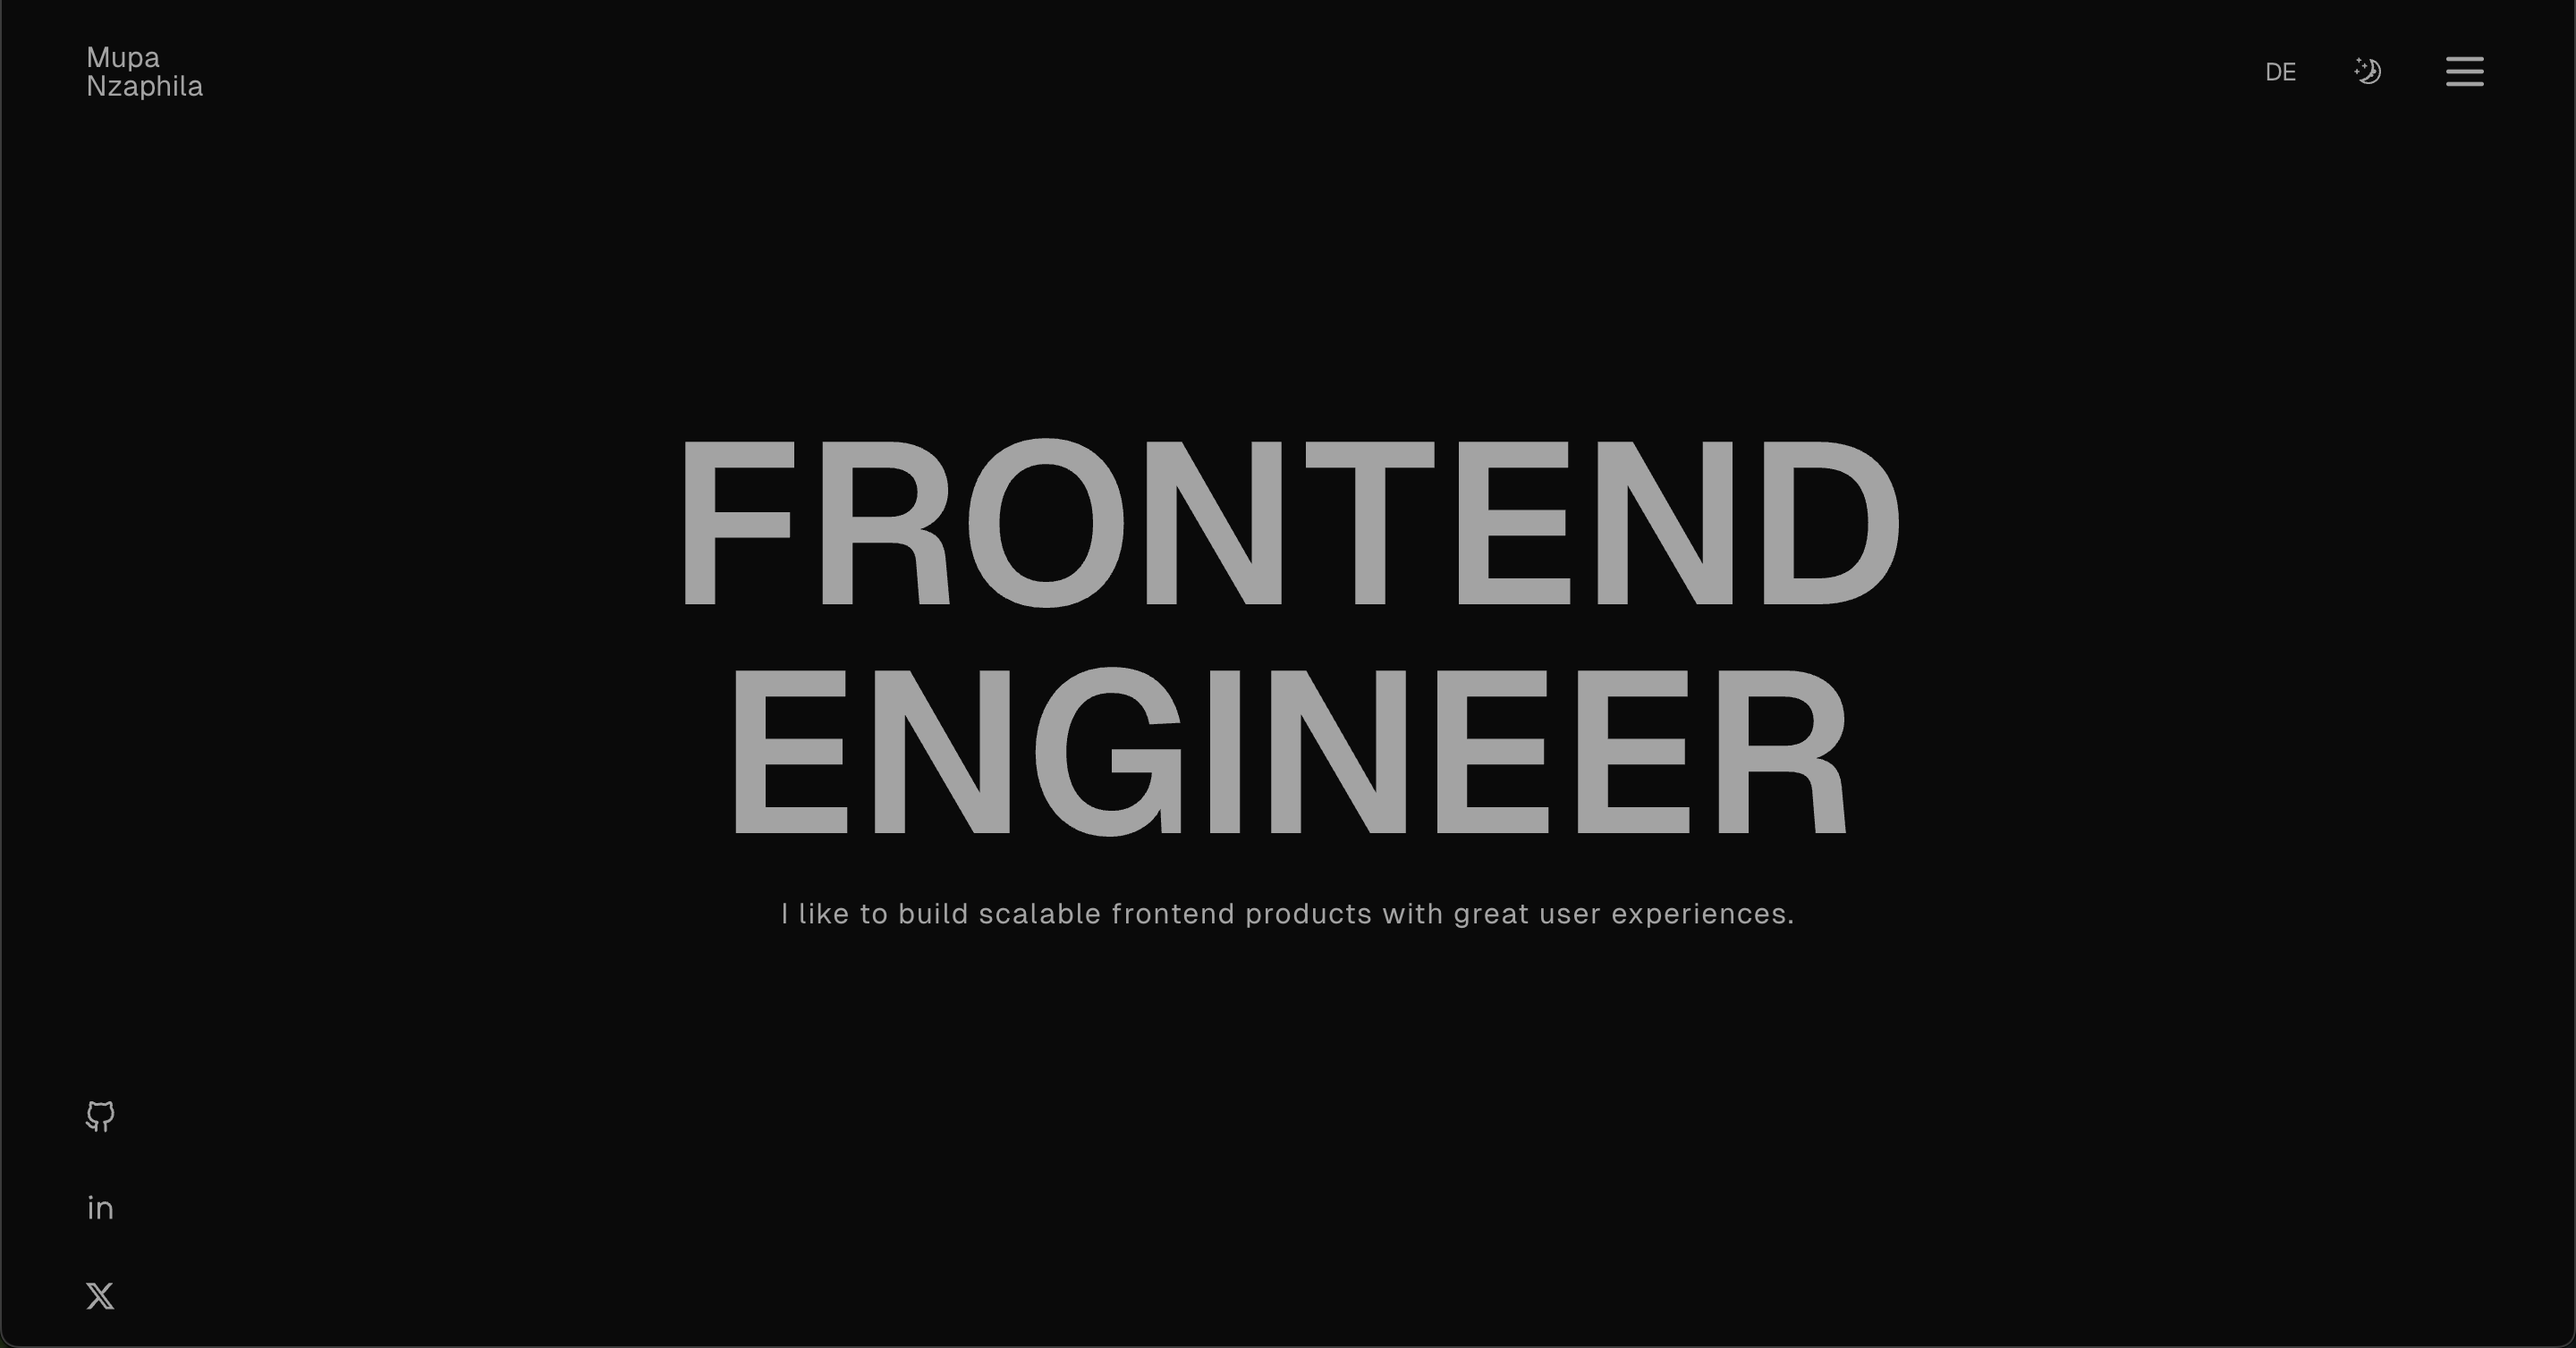
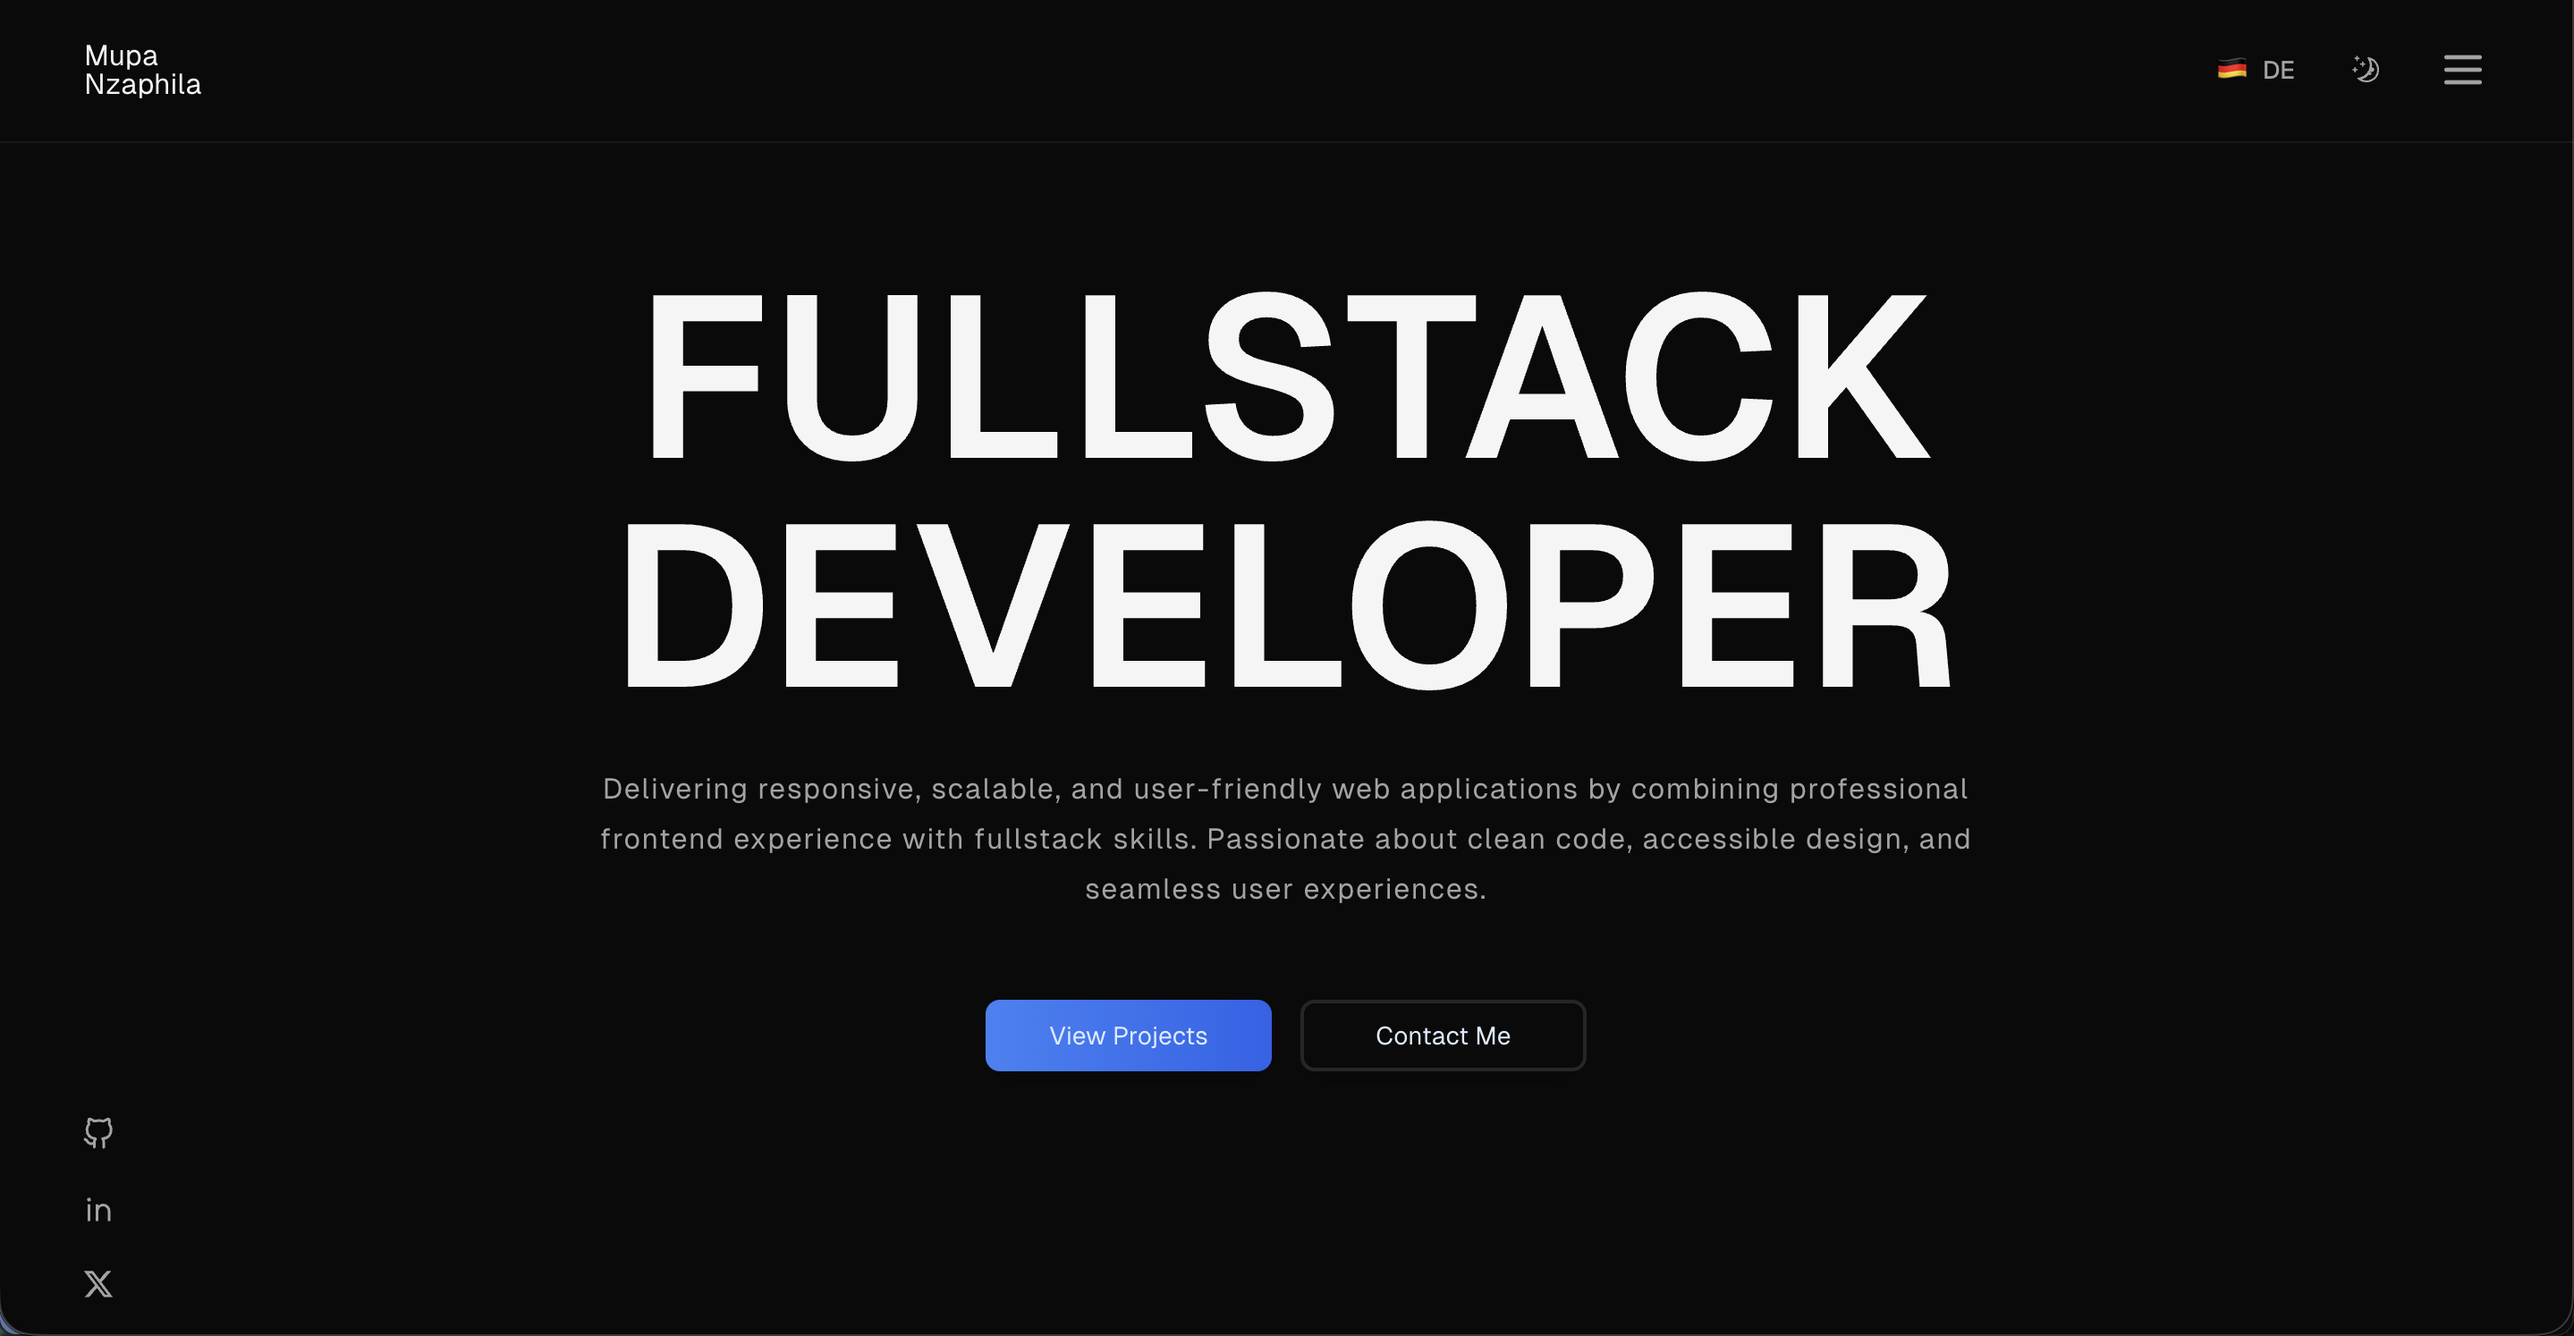
change screenshot in readme and update metadata

diff --git a/src/app/[locale]/layout.tsx b/src/app/[locale]/layout.tsx
@@ -26,7 +26,7 @@ const geistMono = localFont({
 
 export const metadata: Metadata = {
   title: "Mupa M'mbetsa Nzaphila | Portfolio",
-  description: "Frontend Developer and Designer Portfolio",
+  description: "Fullstack Developer, Frontend Developer and Designer Portfolio",
   icons: {
     icon: "/favicon.ico",
   },
